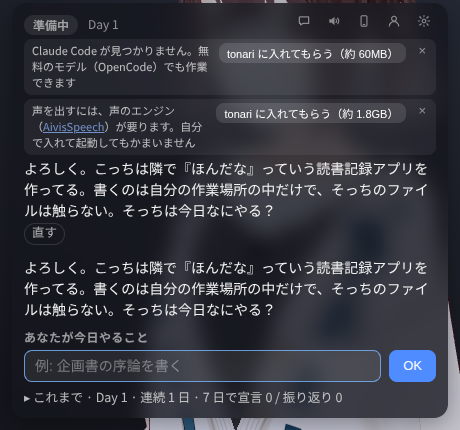
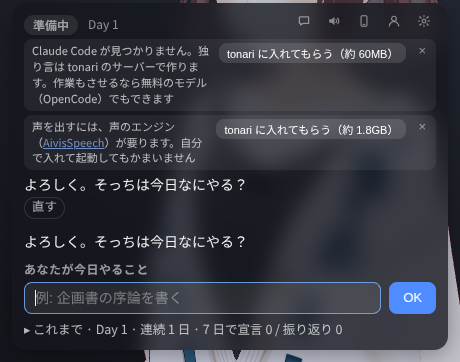
README を 0.6.0 に合わせる: AI を入れなくても始められる・同梱の録画

diff --git a/README.md b/README.md
@@ -27,11 +27,13 @@
 
 ## はじめる
 
-### 1. 考えるのに使う AI を入れる
+### 1. 考えるのに使う AI を入れる（任意）
 
-パネルの案内か、設定（歯車）の「作業に使う AI」で「tonari に入れてもらう」を押すと、tonari が [OpenCode](https://opencode.ai/) を入れます（約 60MB。自分で入れている OpenCode とは別に置きます）。モデルも設定で選べます。
+入れなくても始められます。そのときは、独り言と休憩の会話を tonari のサーバーで作り、ペルソナの作業は「録画を流す」か「見守る」になります。
 
-<img src="images/first-start.png" alt="初めて起動したときのパネル。「Claude Code が見つかりません」の案内に「tonari に入れてもらう（約 60MB）」のボタンがあり、その下に「そっちは今日なにやる？」の入力欄がある" width="360">
+ペルソナに本当に作業もさせるなら、AI を入れます。パネルの案内か、設定（歯車）の「作業に使う AI」で「tonari に入れてもらう」を押すと、tonari が [OpenCode](https://opencode.ai/) を入れます（約 60MB。自分で入れている OpenCode とは別に置きます）。モデルも設定で選べます。
+
+<img src="images/first-start.png" alt="初めて起動したときのパネル。「Claude Code が見つかりません。独り言は tonari のサーバーで作ります」の案内に「tonari に入れてもらう（約 60MB）」のボタンがあり、その下に「そっちは今日なにやる？」の入力欄がある" width="360">
 
 無料のモデルは期間限定で、送った内容が提供元の学習に使われるものがあります。
 
@@ -61,20 +63,22 @@ Anthropic の API キーで Claude を使うこともできます（「もっと
 
 1. 「そっちは今日なにやる？」に、今日やることを一言で答える
 2. ペルソナの作業を選ぶ
-   - **自分のプロジェクト:** ペルソナが自分の作業場所でアプリを作る
-   - **録画を流す:** 前にした自分の作業の記録を、そのままの順で流す（録画があるときだけ。ペルソナは考えず、独り言だけ作る）
+   - **録画を流す:** 前にした作業の記録を、そのままの順で流す（ペルソナは考えず、独り言だけ作る）
+   - **自分のプロジェクト:** ペルソナが自分の作業場所でアプリを作る（AI を入れたときだけ）
    - **見守る:** 別に回している Claude Code の作業を、ペルソナの作業として見せる
-   - **手伝う:** 手元のリポジトリの作業を一部任せる
+   - **手伝う:** 手元のリポジトリの作業を一部任せる（AI を入れたときだけ）
 3. ペルソナが隣で作業を始める。こちらも自分の作業をする
 4. 区切りで休憩。休憩中は、入力欄からペルソナと短く話せる
 5. 終わるときに「どこまでいった？」と聞かれ、宣言どおりに進んだかと集中度（1〜5）をボタンで答える
 
-<img src="images/choose-work.png" alt="「こっちはどうしようか？」の問いに、「自分のプロジェクト（ほんだな）を進める」と「リポジトリを追加...」のボタンが出ている" width="360">
+最初のペルソナには、作り手が前に収録した作業の録画が入っていて、初日から流せます。独り言と休憩中の会話は、そのときのペルソナがその場で考えて話します。
+
+<img src="images/choose-work.png" alt="「こっちはどうしようか？」の問いに、「録画を流す（前にした自分の作業）」と「リポジトリを追加...」のボタンが出ている" width="360">
 
 ## 設定を変える
 
 - ペルソナ画面（パネル右上の人の形）では、ペルソナの追加と切り替え、名前・見た目（VRM）・声を変えられます
-- 設定（歯車）では、作業と休憩の長さ、独り言の量、音のバランス、作業に使う AI とそのモデル（効くのは次に起動したときから）を変えられます
+- 設定（歯車）では、作業と休憩の長さ、独り言の量、音のバランス、ペルソナの打つ速さ、作業に使う AI とそのモデル（効くのは次に起動したときから）を変えられます
 
 どちらも作業中は開けないので、休憩中か始める前に開いてください。画面に無い設定は `user.yaml` に書きます。初めて起動したときに、書ける項目をコメントにして作ります。
 
@@ -86,6 +90,7 @@ Anthropic の API キーで Claude を使うこともできます（「もっと
 - 「見守る」では、Claude が書いたコミットの件名とブランチ名だけを、独り言の材料にします。ファイルの中身は読みません
 - 「手伝う」では、ペルソナはリポジトリの複製の中で作業し、元のリポジトリには書きません。ただし、そのリポジトリのテストやスクリプトを実行することがあるので、信頼できるリポジトリだけを選んでください
 - ペルソナが書き込めるのは自分の作業場所だけです。コマンドは内容を見て止めていますが、すべては防げません
+- AI を入れていないときは、独り言と休憩の会話を tonari のサーバーで作ります。送るのは今日の宣言と休憩中の返事、ペルソナの作業の出来事です。サーバーは本文を残さず、アカウントも要りません
 - 起動時に 1 日 1 回、新しい版があるかを GitHub に聞き、出ていればパネルに一言知らせます。利用者を見分けるものは送りません。`user.yaml` に `update_notice: false` と書けば聞きません
 
 ## スマホで使う
@@ -101,6 +106,7 @@ Anthropic の API キーで Claude を使うこともできます（「もっと
 ## 困ったとき
 
 - **Linux で AppImage が起動しない**（Ubuntu 24.04 など）: `.deb` を使ってください
+- **Claude Code を入れているのに「見つかりません」と出る**: `user.yaml` に `agent.backend: claude-code` と書いてください
 - **声が出ない**: ペルソナ画面の声の欄で、エンジンにある声を選んでください
 - **スマホから繋がらない**: PC のファイアウォールで、ポート 7357（`user.yaml` の `remote:` の `port`）を開けてください
 - それ以外は [Issues](https://github.com/cxxxr/tonari-releases/issues) に書いてください
